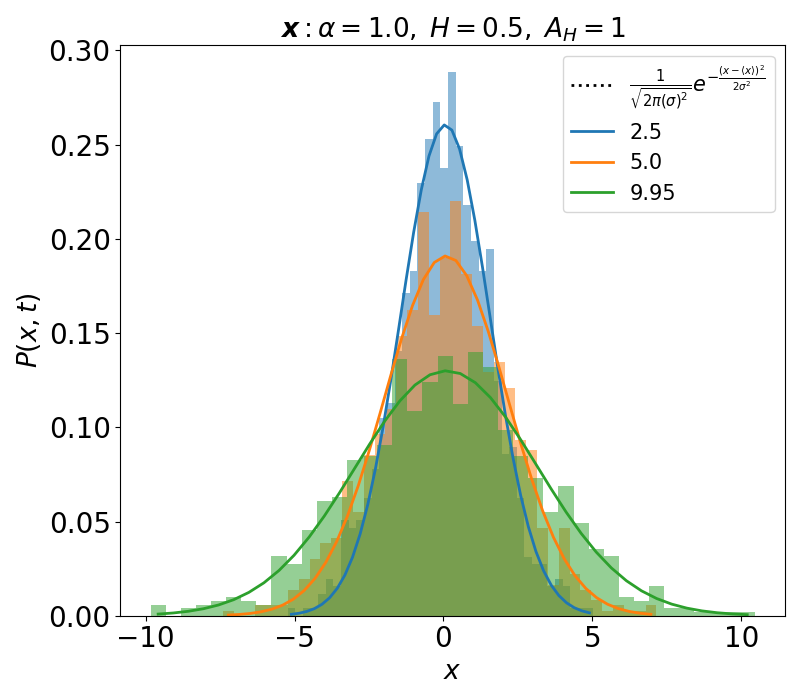
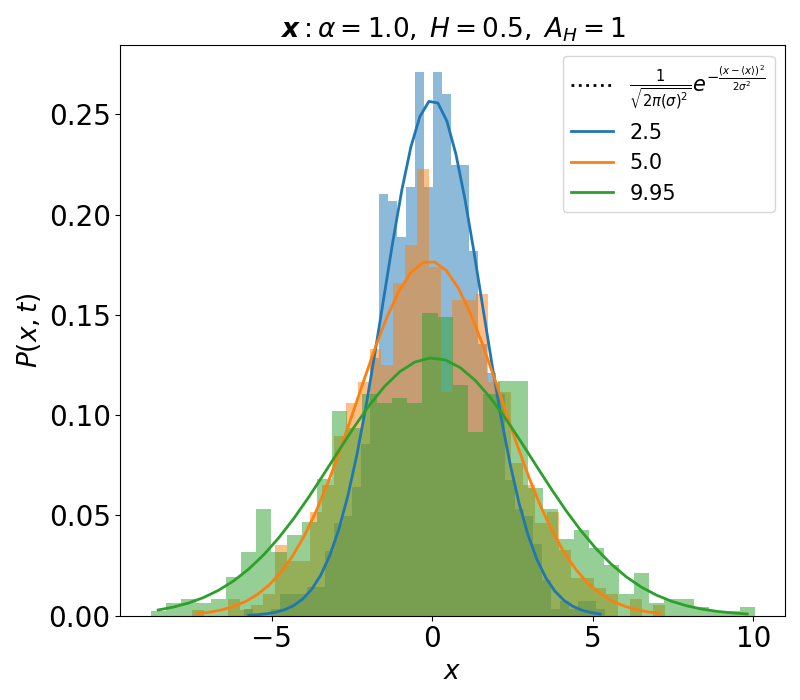
separated plot phi and plot x in separate files

diff --git a/scripts/plot_x.py b/scripts/plot_x.py
@@ -1,0 +1,60 @@
+import sys
+sys.path.append("src/")
+from world import *
+import matplotlib.pyplot as plt
+import plotting
+import utilities
+
+mode = 'x'
+alphas = [1.]   # include both cases
+Hs = [0.8, 0.5, 0.3]            # only used if alpha==1
+realizations = 1000
+Tf = 10
+h = 0.05
+sets = 1
+# Plotting
+fig1, ax1 = plt.subplots(figsize=(12, 9))
+fig2, ax2 = plt.subplots(figsize=(12, 9))
+fig3, ax3 = plt.subplots()
+A_H = []
+for alpha in alphas:
+    for H in Hs:
+
+        env = utilities.read_env(mode, alpha, H, realizations, Tf, h, sets)
+        A_H.append(round(env.A_H, 2))
+        eta = env.eta
+
+        # Plot MSD
+        env.compute_msd()
+        plotting.plot_msd(ax1, env, 'sim')
+        # env.compute_msd_sol()
+        # plotting.plot_msd(ax1, env, 'sol')
+        env.compute_msd_an()
+        plotting.plot_msd(ax1, env, 'an', label_an=(env.alpha == 0.3))
+
+        # Plot moments
+        env.compute_var()
+        plotting.plot_moment(ax2, env, variable='sim', mom_type='var')
+        # env.compute_var_sol()
+        # plotting.plot_moment(ax2, env, variable='sol', mom_type='var')
+        # env.compute_var_an()
+        # plotting.plot_moment(ax2, env, variable='an', mom_type='var')
+        plotting.plot_moment(ax2, env, variable='fit', mom_type='var')
+
+        env.compute_mean()
+        plotting.plot_moment(ax3, env, 'sim', 'mean')
+        plotting.plot_moment(ax3, env, 'fit', 'mean')
+
+        # Plot PDF
+        fig_pdf, ax_pdf = plt.subplots(figsize=(8, 7))
+        for t in [int(Tf/(4*h)), int(Tf/(2*h)), int((Tf/h)-1)]:
+            plotting.plot_pdf(ax_pdf, env, mode, time=t)
+        fig_pdf.tight_layout()
+        fig_pdf.savefig(f"plots/pdf/{mode}pdf_alpha{alpha}_H{H}_r{realizations*sets}_Tf{Tf}_h{h}.png", dpi=100)
+
+fig1.tight_layout()
+fig1.savefig(f"plots/msd/{mode}msd_alpha{alphas}_H{Hs}_r{realizations*sets}_Tf{Tf}_h{h}_AH{A_H}_eta{eta}.png", dpi=100)
+fig2.tight_layout()
+fig2.savefig(f"plots/var/{mode}var_alpha{alphas}_H{Hs}_r{realizations*sets}_Tf{Tf}_h{h}_AH{A_H}_eta{eta}.png", dpi=100)
+fig3.tight_layout()
+fig3.savefig(f"plots/mean/{mode}mean_alpha{alphas}_H{Hs}_r{realizations*sets}_Tf{Tf}_h{h}_AH{A_H}_eta{eta}.png", dpi=100)

diff --git a/scripts/plot_phi.py b/scripts/plot_phi.py
@@ -5,8 +5,8 @@ import matplotlib.pyplot as plt
 import plotting
 import utilities
 
-mode = 'x'
-alphas = [1.]   # include both cases
+mode = 'phi'
+alphas = [1.]  
 Hs = [0.8, 0.5, 0.3]            # only used if alpha==1
 realizations = 1000
 Tf = 10
@@ -26,18 +26,18 @@ for alpha in alphas:
         # Plot MSD
         env.compute_msd()
         plotting.plot_msd(ax1, env, 'sim')
-        # env.compute_msd_sol()
-        # plotting.plot_msd(ax1, env, 'sol')
+        env.compute_msd_sol()
+        plotting.plot_msd(ax1, env, 'sol')
         env.compute_msd_an()
         plotting.plot_msd(ax1, env, 'an', label_an=(env.alpha == 0.3))
 
         # Plot moments
         env.compute_var()
         plotting.plot_moment(ax2, env, variable='sim', mom_type='var')
-        # env.compute_var_sol()
-        # plotting.plot_moment(ax2, env, variable='sol', mom_type='var')
-        # env.compute_var_an()
-        # plotting.plot_moment(ax2, env, variable='an', mom_type='var')
+        env.compute_var_sol()
+        plotting.plot_moment(ax2, env, variable='sol', mom_type='var')
+        env.compute_var_an()
+        plotting.plot_moment(ax2, env, variable='an', mom_type='var')
         plotting.plot_moment(ax2, env, variable='fit', mom_type='var')
 
         env.compute_mean()
